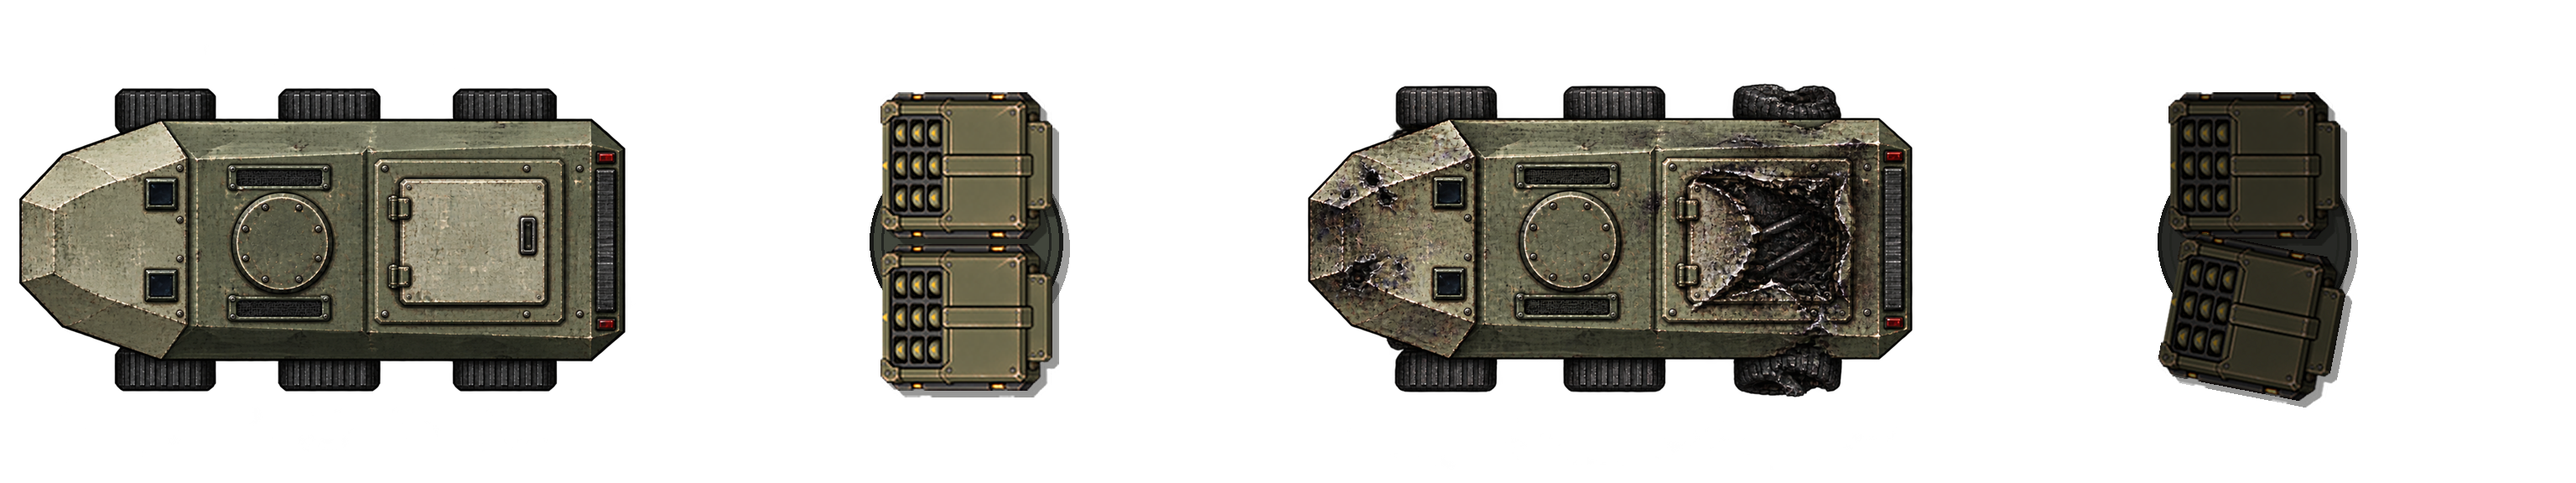
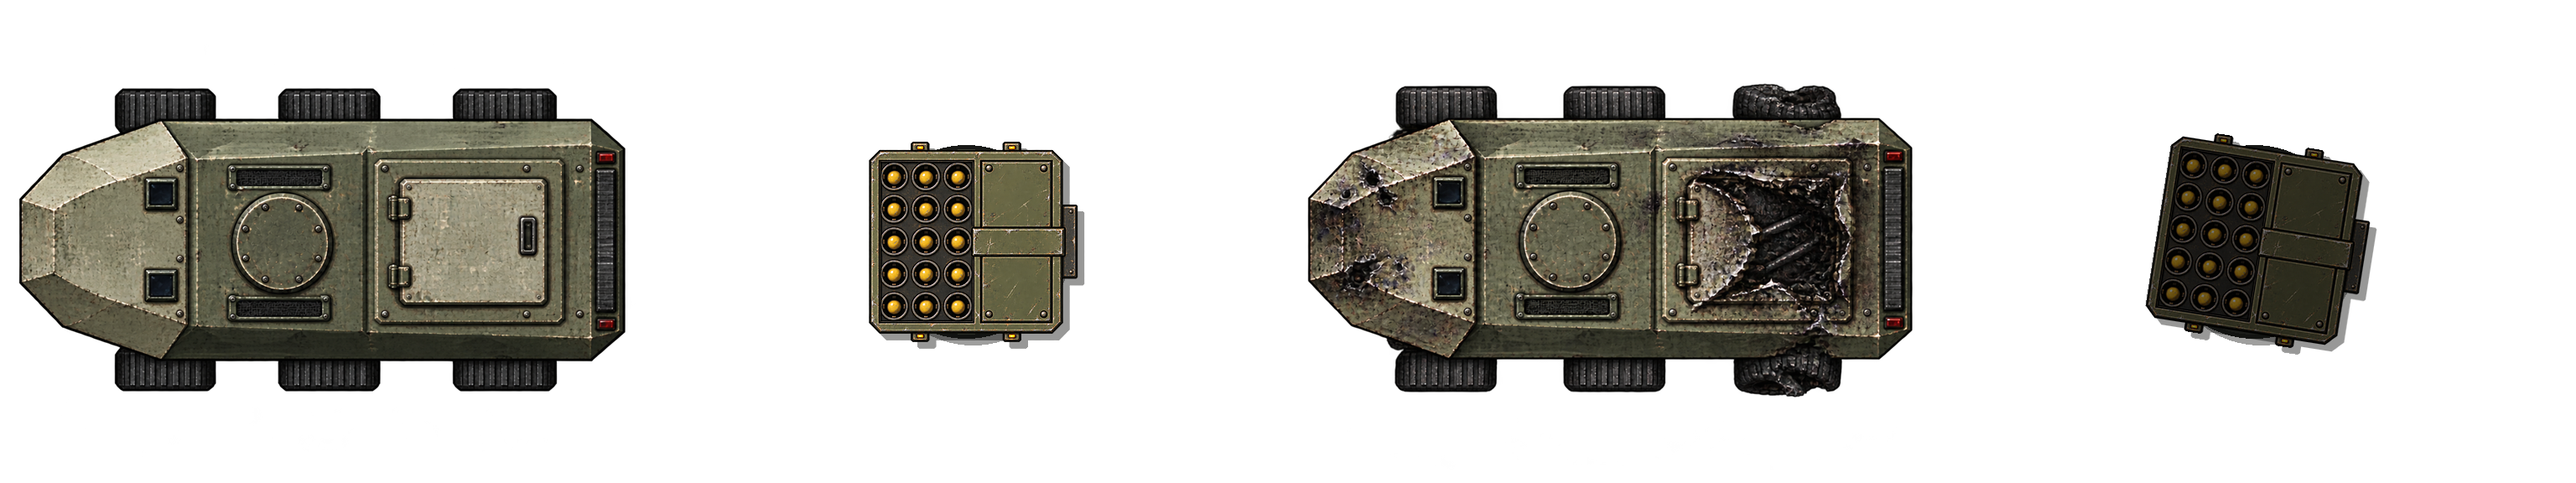
LRM carrier: one fifteen-tube LRM-15 box instead of twin pods
The owner found the twin mech pods on the APC roof odd. The launcher is now a
single LRM-15 box, geometry-first: lrm15_guide.py draws the overhead box (15
mouths, cover, strap, lugs, trunnion), ImageGen reskins it against the mech pod
as material reference (lrm15-master.png, brief and provenance kept), and pack.py
fits it to the APC's 320 px per cell with the canvas centre on the pivot.

The mount's muzzles are the 15 tube mouths, ordered to walk across the face,
so a salvo leaves the one box. The damage doll's turret is one panel. Strings,
VehicleType Javadoc and the convoy noun doc say one rack. The missile-carriers
suite's LRM close view now frames the carrier itself (24 cells) so the box and
its launches read. Weapon stats are unchanged: the 10-round salvo still equals
two mech LRM-15 salvos, raised with the owner as a question.

Changed region(s): [[0.3125, 0.1875, 0.4375, 0.8438], [0.8125, 0.1875, 0.9375, 0.8438]]

diff --git a/art-source/vehicles/missile-carriers/pack.py b/art-source/vehicles/missile-carriers/pack.py
@@ -3,11 +3,12 @@
   mod/graphics/battle/vehicles/lrm-carrier.png   4 x 768x576: APC hull, LRM launcher, APC wreck, wrecked launcher
   mod/graphics/battle/vehicles/srm-technical.png 4 x 768x576: technical hull, SRM pod, technical wreck, wrecked pod
 
-LRM carrier: the heavy APC's live and wreck hulls verbatim (`army-apc.png`, slots 0 and 2), with a launcher of two
-of the mech LRM pods (`mech-modular-topdown/lrm-pod.png`) side by side on a turntable plate where the twin MG stood.
+LRM carrier: the heavy APC's live and wreck hulls verbatim (`army-apc.png`, slots 0 and 2), with one LRM-15 launcher
+box (`lrm15-master.png`, ImageGen's reskin of `lrm15-guide.png`; see README.md) on a turntable plate where the twin
+MG stood.
 SRM technical: the militia technical's hulls verbatim (`militia-technical.png`, slots 0 and 2) with the mech SRM pod
 (`mech-modular-topdown/srm-pod.png`) on a pintle plate. The pods are the same launchers a mech carries, which is
-what the hulls fire.
+what the SRM technical fires.
 
 Turret frames are drawn at the hull's own pixel scale, so each `VehicleType` sets turretVisualCells to its hull's
 visual length and the frame's centre is the turntable's pivot. Pods are drawn nose-up in their own sprites and
@@ -24,13 +25,16 @@ GRAPHICS = ROOT / "mod" / "graphics"
 VEHICLES = GRAPHICS / "battle" / "vehicles"
 APC = VEHICLES / "army-apc.png"
 TECHNICAL = VEHICLES / "militia-technical.png"
-LRM_POD = GRAPHICS / "battle" / "mech-modular-topdown" / "lrm-pod.png"
+LRM15_MASTER = HERE / "lrm15-master.png"
 SRM_POD = GRAPHICS / "battle" / "mech-modular-topdown" / "srm-pod.png"
 
 SLOT_W, SLOT_H = 768, 576
 LIVE, TURRET, WRECK, WRECK_TURRET = 0, 1, 2, 3
 APC_PX_PER_CELL = SLOT_W / 2.4
 TECHNICAL_PX_PER_CELL = SLOT_W / 3.0
+# The LRM-15 master is the guide's 1024 canvas returned at 1254; the guide's box is 780 px nose to tail.
+LRM15_MASTER_BOX_PX = 780 * 1254 / 1024
+LRM15_BOX_CELLS = 0.72
 
 
 def slot(sheet, index):
@@ -72,18 +76,34 @@ def plate(frame, center, radius, broken=False):
               outline=(34, 36, 32, 255), width=3)
 
 
+def clean_alpha(sprite):
+    """ImageGen returns its opaque pixels at alpha 250-253 and a faint haze around them: snap both ends."""
+    alpha = sprite.getchannel("A").point(lambda v: 0 if v < 6 else 255 if v > 240 else round((v - 6) * 255 / 234))
+    out = sprite.copy()
+    out.putalpha(alpha)
+    return out
+
+
+def lrm15_box():
+    """The LRM-15 box nose-left, centred where the master's canvas is centred, at the hull's pixel scale."""
+    src = clean_alpha(Image.open(LRM15_MASTER).convert("RGBA"))
+    scale = LRM15_BOX_CELLS * APC_PX_PER_CELL / LRM15_MASTER_BOX_PX
+    size = (round(src.width * scale), round(src.height * scale))
+    out = src.convert("RGBa").resize(size, Image.LANCZOS).convert("RGBA")
+    out = out.filter(ImageFilter.UnsharpMask(radius=1.5, percent=50, threshold=2))
+    return out.crop(out.getbbox()), (out.width / 2 - out.getbbox()[0], out.height / 2 - out.getbbox()[1])
+
+
 def lrm_launcher(broken=False):
     frame = Image.new("RGBA", (SLOT_W, SLOT_H), (0, 0, 0, 0))
     center = (SLOT_W // 2, SLOT_H // 2)
     plate(frame, center, round(0.36 * APC_PX_PER_CELL), broken)
-    one = pod(LRM_POD, round(0.64 * APC_PX_PER_CELL))
+    box, pivot = lrm15_box()
+    # Where the box's own centre sits relative to its cropped sprite's centre, so the canvas centre stays the pivot.
+    dx, dy = box.width / 2 - pivot[0], box.height / 2 - pivot[1]
     if broken:
-        one = char(one, 0.45)
-    gap = 6
-    for side in (-1, 1):
-        sprite = one.rotate(-11 * side, resample=Image.BICUBIC, expand=True) if broken and side > 0 else one
-        dy = side * (one.height + gap) / 2
-        shadowed(frame, sprite, (center[0], center[1] + dy))
+        box = char(box, 0.45).rotate(-9, resample=Image.BICUBIC, expand=True)
+    shadowed(frame, box, (center[0] + dx, center[1] + dy))
     return frame
 
 

diff --git a/art-source/vehicles/missile-carriers/lrm15_guide.py b/art-source/vehicles/missile-carriers/lrm15_guide.py
@@ -1,0 +1,71 @@
+"""Geometry guide for the LRM carrier's single LRM-15 pod (ImageGen reskins it; see README.md).
+
+Draws one overhead launcher box facing LEFT on a transparent 1024x1024 canvas at 4x its packed size: a tube face
+of fifteen mouths (five across, three deep) at the nose, a raised top cover with a centre strap behind it, side
+lugs, and a trunnion block at the tail where the box sits on the turntable. Flat grey planes only; the shade of
+a plane says how high it stands. The box is centred on the canvas, so the canvas centre is the turntable pivot.
+
+    python art-source/vehicles/missile-carriers/lrm15_guide.py
+"""
+from pathlib import Path
+
+from PIL import Image, ImageDraw
+
+HERE = Path(__file__).resolve().parent
+OUT = HERE / "lrm15-guide.png"
+
+SIZE = 1024
+LENGTH, WIDTH = 780, 740          # nose-to-tail along x, across along y
+COLS, ROWS = 3, 5                 # tube mouths: deep x across
+OUTLINE = (22, 23, 22, 255)
+
+
+def main():
+    img = Image.new("RGBA", (SIZE, SIZE), (0, 0, 0, 0))
+    d = ImageDraw.Draw(img)
+    cx = cy = SIZE // 2
+    x0, x1 = cx - LENGTH // 2, cx + LENGTH // 2
+    y0, y1 = cy - WIDTH // 2, cy + WIDTH // 2
+
+    # Trunnion block at the tail, under the box.
+    d.rectangle((x1 - 120, cy - 150, x1 + 60, cy + 150), fill=(92, 92, 92, 255), outline=OUTLINE, width=8)
+    # Side lugs (lifting points), under the box.
+    for y in (y0 - 34, y1 - 10):
+        for x in (x0 + 170, x1 - 230):
+            d.rectangle((x, y, x + 70, y + 44), fill=(104, 104, 104, 255), outline=OUTLINE, width=6)
+
+    # Main box with chamfered corners.
+    c = 40
+    box = [(x0 + c, y0), (x1 - c, y0), (x1, y0 + c), (x1, y1 - c), (x1 - c, y1), (x0 + c, y1), (x0, y1 - c),
+           (x0, y0 + c)]
+    d.polygon(box, fill=(150, 150, 150, 255), outline=OUTLINE, width=10)
+
+    # Tube face: the front half, sunk, fifteen mouths.
+    fx0, fx1 = x0 + 34, x0 + 424
+    fy0, fy1 = y0 + 40, y1 - 40
+    d.rectangle((fx0, fy0, fx1, fy1), fill=(58, 58, 58, 255), outline=OUTLINE, width=8)
+    pitch_x = (fx1 - fx0) / COLS
+    pitch_y = (fy1 - fy0) / ROWS
+    r = min(pitch_x, pitch_y) * 0.42
+    for i in range(COLS):
+        for j in range(ROWS):
+            mx = fx0 + pitch_x * (i + 0.5)
+            my = fy0 + pitch_y * (j + 0.5)
+            d.ellipse((mx - r, my - r, mx + r, my + r), fill=(18, 18, 18, 255), outline=(120, 120, 120, 255),
+                      width=5)
+            d.ellipse((mx - r * 0.45, my - r * 0.45, mx + r * 0.45, my + r * 0.45), fill=(200, 200, 200, 255))
+
+    # Raised top cover behind the face, with a centre strap running nose to tail.
+    d.rectangle((fx1 + 26, y0 + 40, x1 - 40, y1 - 40), fill=(176, 176, 176, 255), outline=OUTLINE, width=8)
+    d.rectangle((fx1 - 10, cy - 60, x1 + 10, cy + 60), fill=(200, 200, 200, 255), outline=OUTLINE, width=8)
+    # Corner bolts on the cover.
+    for bx in (fx1 + 60, x1 - 74):
+        for by in (y0 + 74, y1 - 74):
+            d.ellipse((bx - 12, by - 12, bx + 12, by + 12), fill=(110, 110, 110, 255), outline=OUTLINE, width=4)
+
+    img.save(OUT)
+    print(f"wrote {OUT} {img.size}")
+
+
+if __name__ == "__main__":
+    main()

diff --git a/src/test/java/com/dillon/starsectormarines/battle/vehicle/MissileCarrierSceneSnapshotSuite.java b/src/test/java/com/dillon/starsectormarines/battle/vehicle/MissileCarrierSceneSnapshotSuite.java
@@ -12,7 +12,7 @@ import java.util.List;
 
 /**
  * The missile-carrier scene's frames, from the same run that produced its verdicts: all three loops at 1920x1080 and
- * 100% scale, whole map plus a full-size close view. Scene walls have no art, so the wall the LRM carrier fires over
+ * 100% scale, whole map plus a full-size close view (the LRM carrier's on the carrier itself). Scene walls have no art, so the wall the LRM carrier fires over
  * and the building the SRM technical hides behind are drawn as marks, and each hull is labelled where it starts.
  */
 public final class MissileCarrierSceneSnapshotSuite extends BehaviorSceneSnapshotSuite {
@@ -29,8 +29,9 @@ public final class MissileCarrierSceneSnapshotSuite extends BehaviorSceneSnapsho
             // 64 cells across holds the technical, the building and the stretch of road it covers.
             return new float[] {40f, 27f, 64f};
         }
-        // 90 cells across is 50 tall: the infantry, the carrier, the wall, the scout and the tank in one frame.
-        return new float[] {44f, 29f, 90f};
+        // The whole map already holds the infantry, the scout, the wall and the tank; the close view is the carrier
+        // itself, 24 cells across, so its launcher box and the salvo leaving its tubes read.
+        return new float[] {MissileCarrierScene.CARRIER_X + 4f, MissileCarrierScene.CARRIER_Y, 24f};
     }
 
     @Override protected float closeViewScale() { return 1f; }

diff --git a/src/main/java/com/dillon/starsectormarines/battle/vehicle/VehicleType.java b/src/main/java/com/dillon/starsectormarines/battle/vehicle/VehicleType.java
@@ -267,12 +267,12 @@ public enum VehicleType {
         }
     },
     /**
-     * The heavy APC's hull with the troop bay given over to a launcher: two of the mech LRM-15's anti-armor racks
-     * on a turntable where the twin MG stood. It is the long arm against armor, where the fire-support APC's mortar
+     * The heavy APC's hull with the troop bay given over to a launcher: one fifteen-tube LRM-15 anti-armor box on a
+     * turntable where the twin MG stood. It is the long arm against armor, where the fire-support APC's mortar
      * is the short arm against men: its rounds arc over cover onto a machine somebody else on its side is looking
      * at ({@link SideObservers}), it holds fire at anything soft, and it fights from beyond its target's reach
      * ({@link Stance#STANDOFF}). It pays with no seats and thinner plate than the carrier it replaces. Its sheet is
-     * the APC's hulls with the mech LRM pod drawn at the hull's scale (art-source/vehicles/missile-carriers).
+     * the APC's hulls with the launcher box drawn at the hull's scale (art-source/vehicles/missile-carriers).
      */
     LRM_CARRIER("graphics/battle/vehicles/lrm-carrier.png", 0, 4, -90f,
             0, 2.4f, 1.4f, 2.6f, 1.6f, 3.5f, .8f, 2.2f,

diff --git a/art-source/dolls/build_dolls.py b/art-source/dolls/build_dolls.py
@@ -200,12 +200,12 @@ def tank(name, turret_w=24, turret_top=50, heavy=False, screened=False, dozer=Fa
     return d.write()
 
 
-def apc(name, pods=False):
+def apc(name, launcher=False):
     d = Doll(name)
     for cx, rear in views():
         vl, vr = sides(rear)
-        if pods:
-            d.pair("TURRET", "TURRET", [(-30, 36), (-2, 36), (-2, 58), (-30, 58)], cx)
+        if launcher:
+            d.panel("TURRET", [(-24, 36), (24, 36), (24, 58), (-24, 58)], cx)
         else:
             d.panel("TURRET", [(-10, 42), (10, 42), (14, 58), (-14, 58)], cx)
         d.panel("HULL", [(-34, 58), (34, 58), (40, 68), (-40, 68)], cx)
@@ -418,7 +418,7 @@ def main():
         tank("tank-screened", screened=True),
         tank("tank-dozer", turret_w=16, turret_top=58, dozer=True),
         apc("apc"),
-        apc("lrm-carrier", pods=True),
+        apc("lrm-carrier", launcher=True),
         pickup("technical", gun="mg"),
         pickup("technical-srm", gun="srm"),
         pickup("truck", cargo=True),

diff --git a/art-source/vehicles/missile-carriers/README.md b/art-source/vehicles/missile-carriers/README.md
@@ -1,0 +1,30 @@
+# Missile carriers
+
+`pack.py` packs `mod/graphics/battle/vehicles/lrm-carrier.png` and `srm-technical.png` (four 768x576 frames each:
+live hull, live turret, wreck hull, wreck turret). The hulls are the heavy APC's and the technical's, verbatim.
+
+## LRM-15 launcher box
+
+The LRM carrier carries one fifteen-tube LRM-15 box on its roof turntable (it carried two mech LRM pods until
+2026-10-23). The box is geometry-first:
+
+- `lrm15_guide.py` draws `lrm15-guide.png`: a 1024x1024 overhead box facing left, centred on the canvas, with a
+  sunken tube face of fifteen mouths (three deep, five across), a raised cover and centre strap, side lugs and a
+  tail trunnion. The canvas centre is the turntable pivot.
+- `lrm15.prompt.txt` is the exact ImageGen brief; the guide was the geometry reference and the mech
+  `lrm-pod.png` the material reference. `lrm15-master.png` is the untouched 1254x1254 result, with its
+  provenance beside it. It registers to the guide at a uniform 1254/1024.
+- `pack.py` snaps the master's near-opaque alpha, scales it so the box is 0.72 cells nose to tail at the APC's
+  320 px per cell, and keeps the canvas centre on the frame centre. The wreck turret is the same box darkened and
+  knocked 9 degrees off its bearing.
+
+The mount's 15 muzzles in `turret-emplacements.turret.json` (`mount.vehicle-lrm`) are those tube mouths in cells,
+`[lateral, forward]` from the pivot: lateral 0, +/-0.122, +/-0.244 and forward 0.269, 0.149, 0.029, listed in an
+order that walks across the face so a salvo ripples over the whole box. Change the box size or the guide and they
+move with it.
+
+```
+python art-source/vehicles/missile-carriers/lrm15_guide.py
+python art-source/vehicles/missile-carriers/pack.py
+python art-source/dolls/build_dolls.py
+```

diff --git a/roadmap/convoy/design/convoy-nouns.md b/roadmap/convoy/design/convoy-nouns.md
@@ -1116,7 +1116,7 @@ There is **no rack choice**: a vehicle is a fixed variant, so the anti-armor
 warhead is each hull's identity, and the fragmentation rack stays a mech fitting.
 
 The **LRM carrier** (`LRM_CARRIER`, Advanced, Medium lift) is the heavy APC's hull
-with the troop bay given over to two LRM-15 racks on a turntable
+with the troop bay given over to one fifteen-tube LRM-15 box on a turntable
 (`art-source/vehicles/missile-carriers/`). It is the APC line's long arm against
 armor, where the fire-support APC's mortar is its short arm against men. Its rounds
 arc, and it fires **on a spotter's call** at a machine it cannot see itself:
